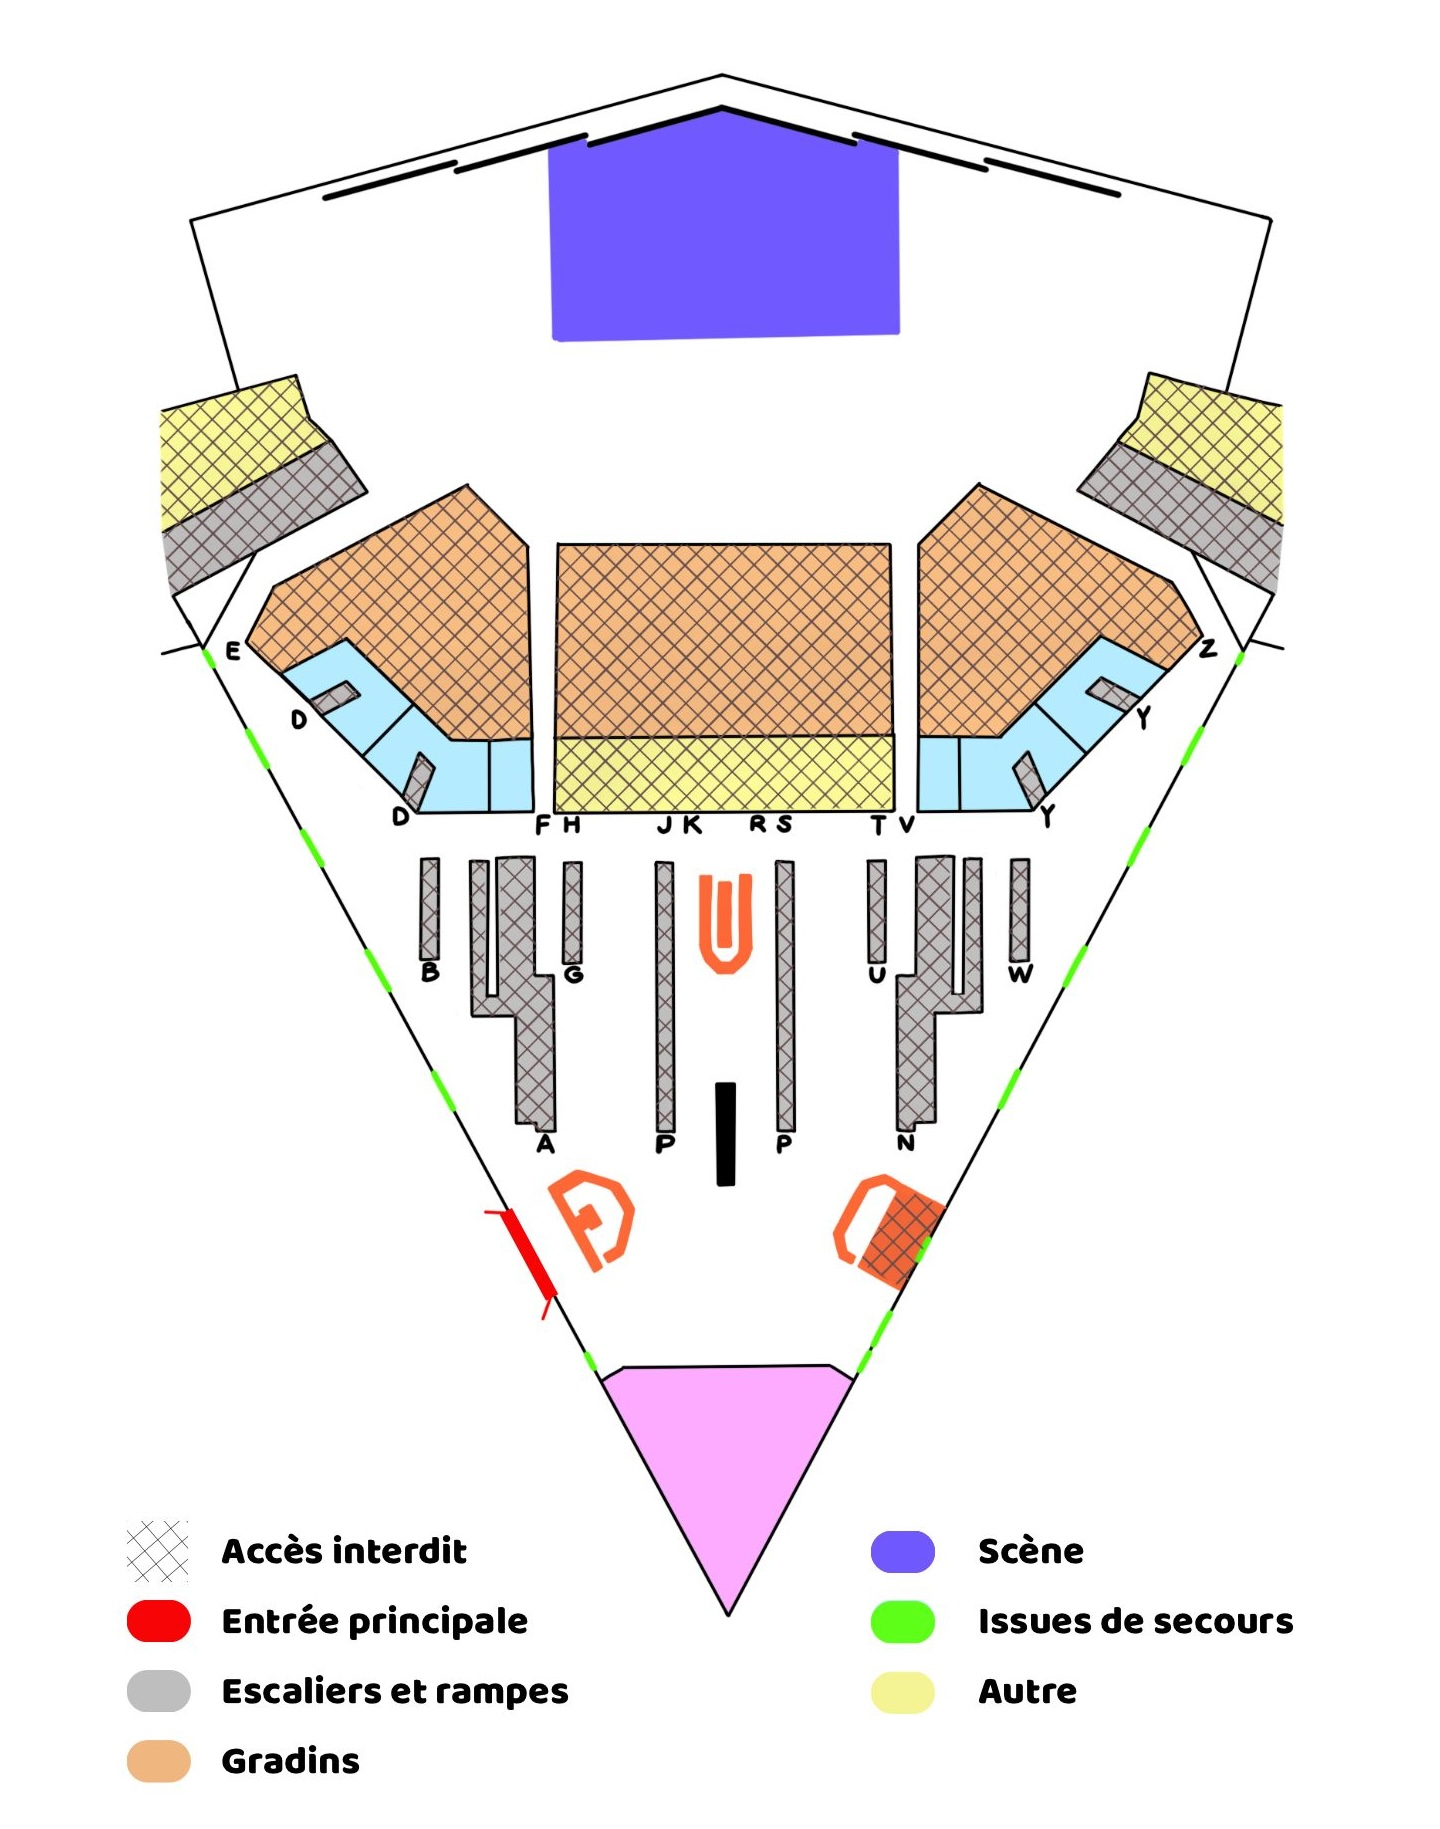
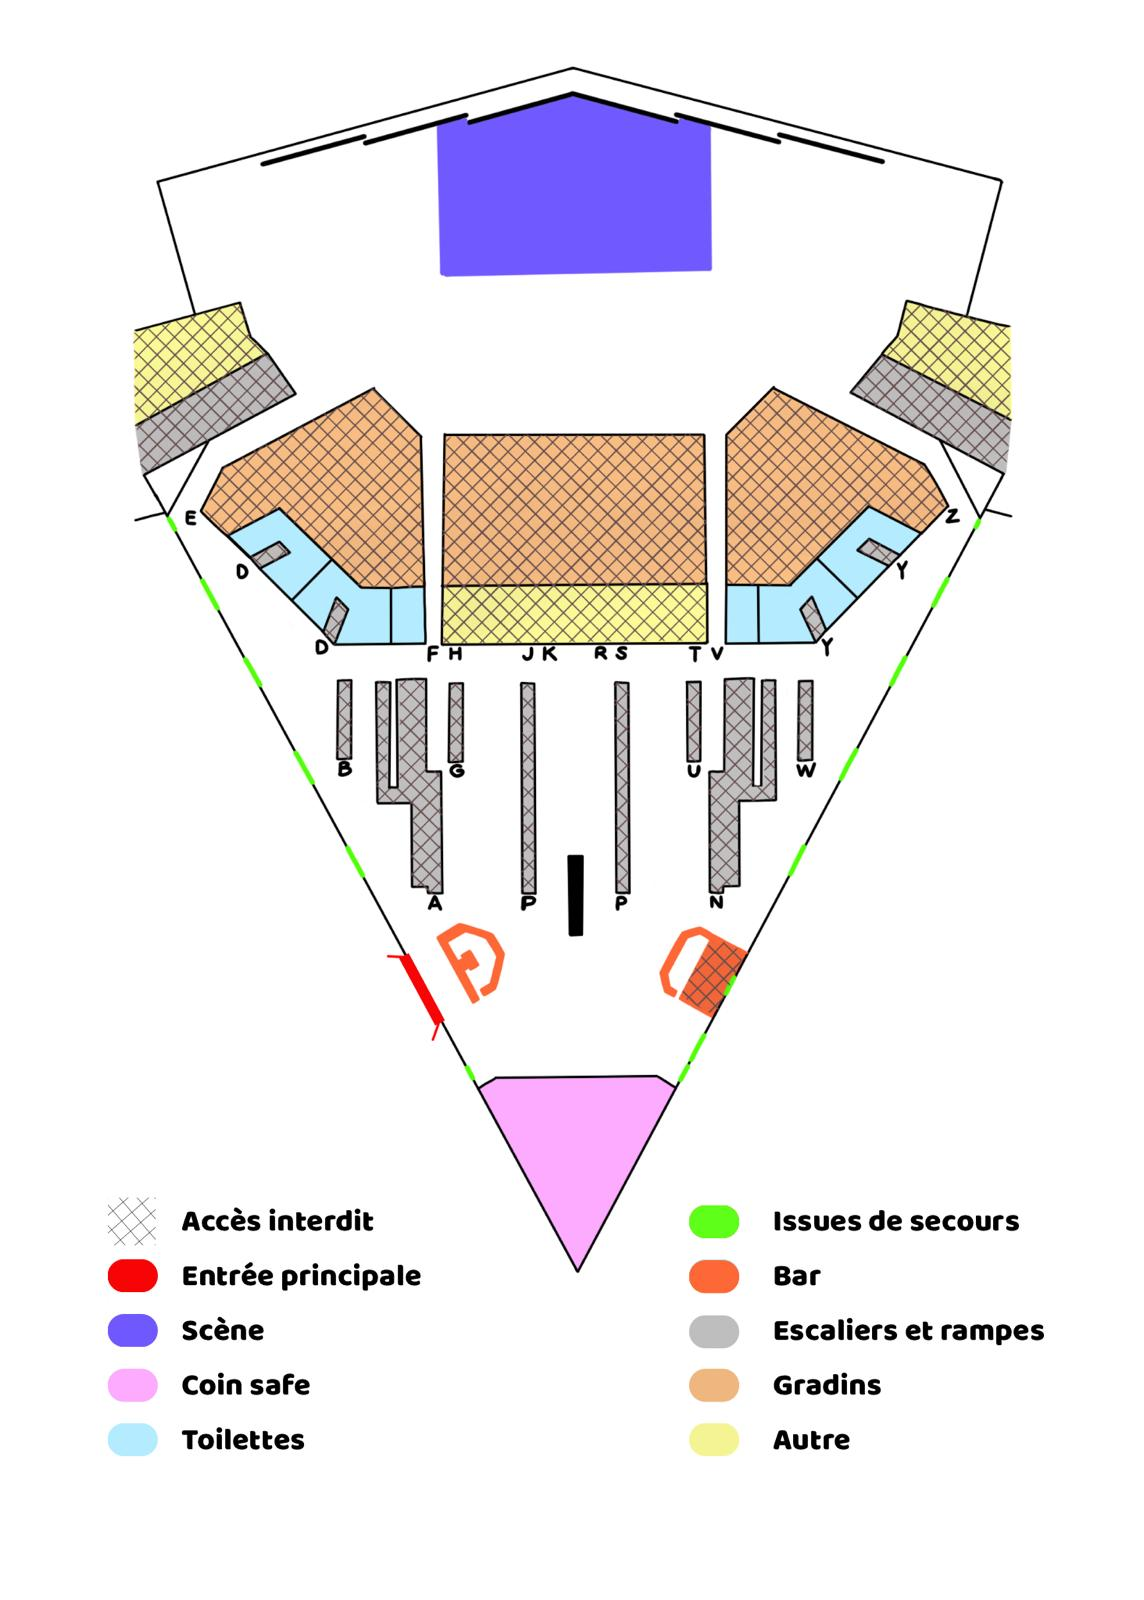
correctif et ajout de contenu

Changed region(s): [[0.0918, 0.0312, 0.9178, 0.9375], [0.0918, 0.75, 0.3977, 1.0]]

diff --git a/src/pages/PartyMap.tsx b/src/pages/PartyMap.tsx
@@ -23,6 +23,9 @@ import './PartyMap.css';
 /** Normalized storage range for plan marker coords in Firebase (legacy 1000×1000 map space). */
 const PLAN_MARKER_COORD_RANGE = 1000;
 
+/** Radians for 90° counter-clockwise (rotate left) when building a rotated plan bitmap. */
+const ROTATE_90_CCW_RAD = -Math.PI / 2;
+
 interface Party {
   id: string;
   name: string;
@@ -195,15 +198,19 @@ const PartyMap: React.FC<PartyMapProps> = ({ parties: partiesFromProps }) => {
     imageSrc: string; 
     imageAlt: string;
     partyName: string;
-  }> = ({ imageSrc, partyName }) => {
+    /** When true, raster is drawn 90° counter-clockwise before display (Leaflet-safe vs CSS transform on overlay img). */
+    rotateImageLeft90?: boolean;
+  }> = ({ imageSrc, partyName, rotateImageLeft90 = false }) => {
     const { isEditing } = useEditing();
     const { isAdmin } = useApp();
     const [planMarkers, setPlanMarkers] = useState<any[]>([]);
     const [isAddingMarker, setIsAddingMarker] = useState(false);
     const [selectedIndicationType, setSelectedIndicationType] = useState('Soins');
     const [planImageSize, setPlanImageSize] = useState<{ w: number; h: number } | null>(null);
+    const [planDisplayUrl, setPlanDisplayUrl] = useState<string | null>(null);
     const [planImageLoadError, setPlanImageLoadError] = useState(false);
     const [planImageRetryKey, setPlanImageRetryKey] = useState(0);
+    const rotatedBlobUrlRef = useRef<string | null>(null);
 
     const indicationTypeEmojis: { [key: string]: string } = {
       'Soins': '🚑',
@@ -221,27 +228,84 @@ const PartyMap: React.FC<PartyMapProps> = ({ parties: partiesFromProps }) => {
     };
 
     useEffect(() => {
+      let effectActive = true;
       setPlanImageSize(null);
+      setPlanDisplayUrl(null);
       setPlanImageLoadError(false);
+      if (rotatedBlobUrlRef.current) {
+        URL.revokeObjectURL(rotatedBlobUrlRef.current);
+        rotatedBlobUrlRef.current = null;
+      }
+
       const img = new Image();
-      const onLoad = () => {
+
+      const finalizeNonRotated = () => {
+        if (!effectActive) return;
         if (img.naturalWidth > 0 && img.naturalHeight > 0) {
           setPlanImageSize({ w: img.naturalWidth, h: img.naturalHeight });
+          setPlanDisplayUrl(imageSrc);
         } else {
           setPlanImageLoadError(true);
         }
       };
+
+      const finalizeRotated = () => {
+        if (!effectActive) return;
+        const w = img.naturalWidth;
+        const h = img.naturalHeight;
+        if (w <= 0 || h <= 0) {
+          setPlanImageLoadError(true);
+          return;
+        }
+        const canvas = document.createElement('canvas');
+        canvas.width = h;
+        canvas.height = w;
+        const ctx = canvas.getContext('2d');
+        if (!ctx) {
+          setPlanImageLoadError(true);
+          return;
+        }
+        ctx.translate(0, w);
+        ctx.rotate(ROTATE_90_CCW_RAD);
+        ctx.drawImage(img, 0, 0, w, h);
+        canvas.toBlob((blob) => {
+          if (!effectActive) return;
+          if (!blob) {
+            setPlanImageLoadError(true);
+            return;
+          }
+          const url = URL.createObjectURL(blob);
+          rotatedBlobUrlRef.current = url;
+          setPlanDisplayUrl(url);
+          setPlanImageSize({ w: canvas.width, h: canvas.height });
+        }, 'image/png');
+      };
+
+      const onLoad = () => {
+        if (rotateImageLeft90) {
+          finalizeRotated();
+        } else {
+          finalizeNonRotated();
+        }
+      };
       const onError = () => {
-        setPlanImageLoadError(true);
+        if (effectActive) {
+          setPlanImageLoadError(true);
+        }
       };
       img.addEventListener('load', onLoad);
       img.addEventListener('error', onError);
       img.src = imageSrc;
       return () => {
+        effectActive = false;
         img.removeEventListener('load', onLoad);
         img.removeEventListener('error', onError);
+        if (rotatedBlobUrlRef.current) {
+          URL.revokeObjectURL(rotatedBlobUrlRef.current);
+          rotatedBlobUrlRef.current = null;
+        }
       };
-    }, [imageSrc, planImageRetryKey]);
+    }, [imageSrc, planImageRetryKey, rotateImageLeft90]);
 
     const imageBounds: L.LatLngBoundsExpression = useMemo(() => {
       if (!planImageSize) {
@@ -384,7 +448,7 @@ const PartyMap: React.FC<PartyMapProps> = ({ parties: partiesFromProps }) => {
             Chargement du plan…
           </div>
         )}
-        {!planImageLoadError && planImageSize && (
+        {!planImageLoadError && planImageSize && planDisplayUrl && (
         <MapContainer
           key={`plan-map-${partyName}-${planImageSize.w}-${planImageSize.h}`}
           center={mapCenter}
@@ -396,7 +460,7 @@ const PartyMap: React.FC<PartyMapProps> = ({ parties: partiesFromProps }) => {
         >
           <PlanMapViewAdjuster bounds={imageBounds} />
           <ImageOverlay
-            url={imageSrc}
+            url={planDisplayUrl}
             bounds={imageBounds}
             opacity={1}
           />
@@ -451,9 +515,10 @@ const PartyMap: React.FC<PartyMapProps> = ({ parties: partiesFromProps }) => {
     return (
       <PlanMapView 
         title="Plan du Parc des Expositions"
-        imageSrc="/Parc-expo-plan.jpg"
+        imageSrc="/Parc-Expo.png"
         imageAlt="Plan du Parc des Expositions de Nancy"
         partyName="Parc Expo"
+        rotateImageLeft90
       />
     );
   }

diff --git a/src/pages/Parie.tsx b/src/pages/Parie.tsx
@@ -24,7 +24,7 @@ interface SportSection {
 }
 
 // Date de clôture des paris (à configurer)
-const BETTING_DEADLINE = new Date('2026-04-16T16:00:00'); // 16 avril 2026 à 16h
+const BETTING_DEADLINE = new Date('2026-04-16T15:00:00'); // 16 avril 2026 à 15h
 
 // Emojis pour chaque sport (cohérent avec App.tsx)
 const sportEmojis: { [key: string]: string } = {
@@ -47,6 +47,16 @@ const sportEmojis: { [key: string]: string } = {
   'Show Pompom': '🎀',
   'DJ Contest': '🎧',
 };
+
+/** Delegations allowed to be picked for DJ Contest (must match display names from venues). */
+const DJ_CONTEST_DELEGATIONS: readonly string[] = [
+  'IMT NE',
+  'IMT A',
+  'Mines Alès',
+  'Mines Nancy',
+  'Télécom Paris',
+  'Ponts',
+];
 
 // Interface pour les votes agrégés d'une délégation
 interface DelegationVotes {
@@ -435,9 +445,15 @@ const Parie: React.FC = () => {
       });
     });
 
-    // Ajouter Show Pompom et DJ Contest avec toutes les délégations
+    // Ajouter Show Pompom (toutes les délégations) et DJ Contest (liste restreinte)
     const allDelegations = getAllDelegations();
-    
+    const djContestDelegationSet = new Set(
+      DJ_CONTEST_DELEGATIONS.map(d => d.toLowerCase())
+    );
+    const djContestDelegations = allDelegations.filter(d =>
+      djContestDelegationSet.has(d.toLowerCase())
+    );
+
     // Show Pompom - toutes les délégations participent
     const showPompomKey = 'Show Pompom_mixte';
     sportsMap.set(showPompomKey, {
@@ -446,12 +462,12 @@ const Parie: React.FC = () => {
       delegations: new Set(allDelegations)
     });
 
-    // DJ Contest - toutes les délégations participent
+    // DJ Contest - seulement certaines délégations
     const djContestKey = 'DJ Contest_mixte';
     sportsMap.set(djContestKey, {
       sport: 'DJ Contest',
       gender: 'mixte',
-      delegations: new Set(allDelegations)
+      delegations: new Set(djContestDelegations)
     });
 
     // Convertir en tableau et filtrer les sports sans délégations

diff --git a/src/App.tsx b/src/App.tsx
@@ -644,7 +644,7 @@ function App() {
       },
       {
         id: '3',
-        name: "Parc Expo Hall A",
+        name: "Parc Expo Hall A2",
         position: [48.663481, 6.189737],
         description: "Soirée Showcase 17 avril, 20h-4h",
         address: "Rue Catherine Opalinska, 54500 Vandœuvre-lès-Nancy",
